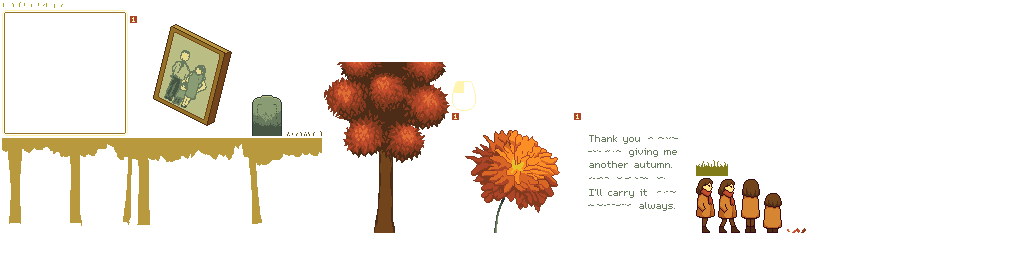
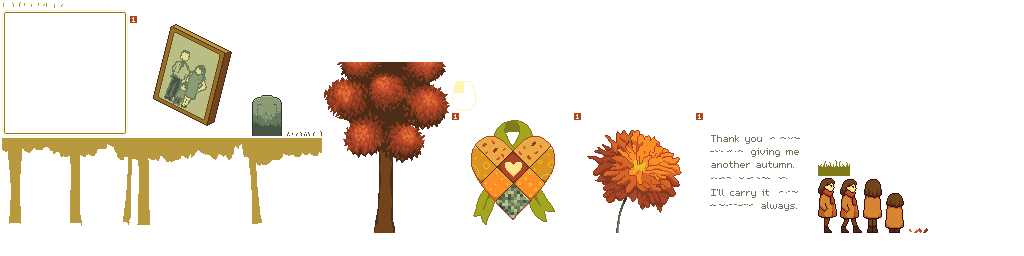
puzzle 4

Changed region(s): [[0.4375, 0.4688, 0.9062, 0.9062], [0.6875, 0.5312, 0.75, 0.5625], [0.6562, 0.4375, 0.6875, 0.4688]]

diff --git a/core/src/main/java/com/distraction/comfyjam1025/screens/PlayScreen.java b/core/src/main/java/com/distraction/comfyjam1025/screens/PlayScreen.java
@@ -16,7 +16,7 @@ import java.util.List;
 
 public class PlayScreen extends Screen {
 
-    private static final int ROWS = 3;
+    private final int numRows;
 
     private final TextureRegion puzzleBg;
     private final PuzzlePiece[][] puzzle;
@@ -30,6 +30,9 @@ public class PlayScreen extends Screen {
     public PlayScreen(Context context, int year) {
         super(context);
 
+        if (year == 4) numRows = 4;
+        else numRows = 3;
+
         lmb = new ImageEntity(context, context.getImage("mouse"));
         lmb.setPosition(270, 115);
         rmb = new ImageEntity(context, context.getImage("mouse"));
@@ -39,14 +42,14 @@ public class PlayScreen extends Screen {
         rotateText = new TextEntity(context, context.getFont(Context.M5X716), "Rotate", 270, 75, TextEntity.Alignment.CENTER);
 
         puzzleBg = context.getImage("puzzlebg");
-        puzzle = new PuzzlePiece[ROWS][ROWS];
-        int tileSize = 120 / ROWS;
+        puzzle = new PuzzlePiece[numRows][numRows];
+        int tileSize = 120 / numRows;
         float sx = Constants.WIDTH / 2f - 60;
         float sy = Constants.HEIGHT / 2f + 60;
         TextureRegion[][] images = context.getImage("puzzle" + year).split(tileSize, tileSize);
         for (int row = 0; row < puzzle.length; row++) {
             for (int col = 0; col < puzzle[row].length; col++) {
-                puzzle[row][col] = new PuzzlePiece(context, row * ROWS + col, row, col, images[row][col]);
+                puzzle[row][col] = new PuzzlePiece(context, row * numRows + col, row, col, images[row][col]);
             }
         }
 
@@ -77,7 +80,7 @@ public class PlayScreen extends Screen {
     }
 
     private void updatePositions() {
-        int tileSize = 120 / ROWS;
+        int tileSize = 120 / numRows;
         float sx = Constants.WIDTH / 2f - 60;
         float sy = Constants.HEIGHT / 2f + 60;
         for (int row = 0; row < puzzle.length; row++) {
@@ -94,7 +97,7 @@ public class PlayScreen extends Screen {
     private boolean isDone() {
         for (int row = 0; row < puzzle.length; row++) {
             for (int col = 0; col < puzzle[row].length; col++) {
-                if (puzzle[row][col].id != row * ROWS + col || puzzle[row][col].rotateIndex != 0) {
+                if (puzzle[row][col].id != row * numRows + col || puzzle[row][col].rotateIndex != 0) {
                     return false;
                 }
             }

diff --git a/core/src/main/java/com/distraction/comfyjam1025/Context.java b/core/src/main/java/com/distraction/comfyjam1025/Context.java
@@ -28,7 +28,7 @@ public class Context {
         sb = new SpriteBatch();
 
 //        sm = new ScreenManager(new com.distraction.comfyjam1025.screens.IntroScene(this));
-        sm = new ScreenManager(new com.distraction.comfyjam1025.screens.PlayScreen(this, 3));
+        sm = new ScreenManager(new com.distraction.comfyjam1025.screens.PlayScreen(this, 4));
     }
 
     public TextureRegion getImage(String key) {
